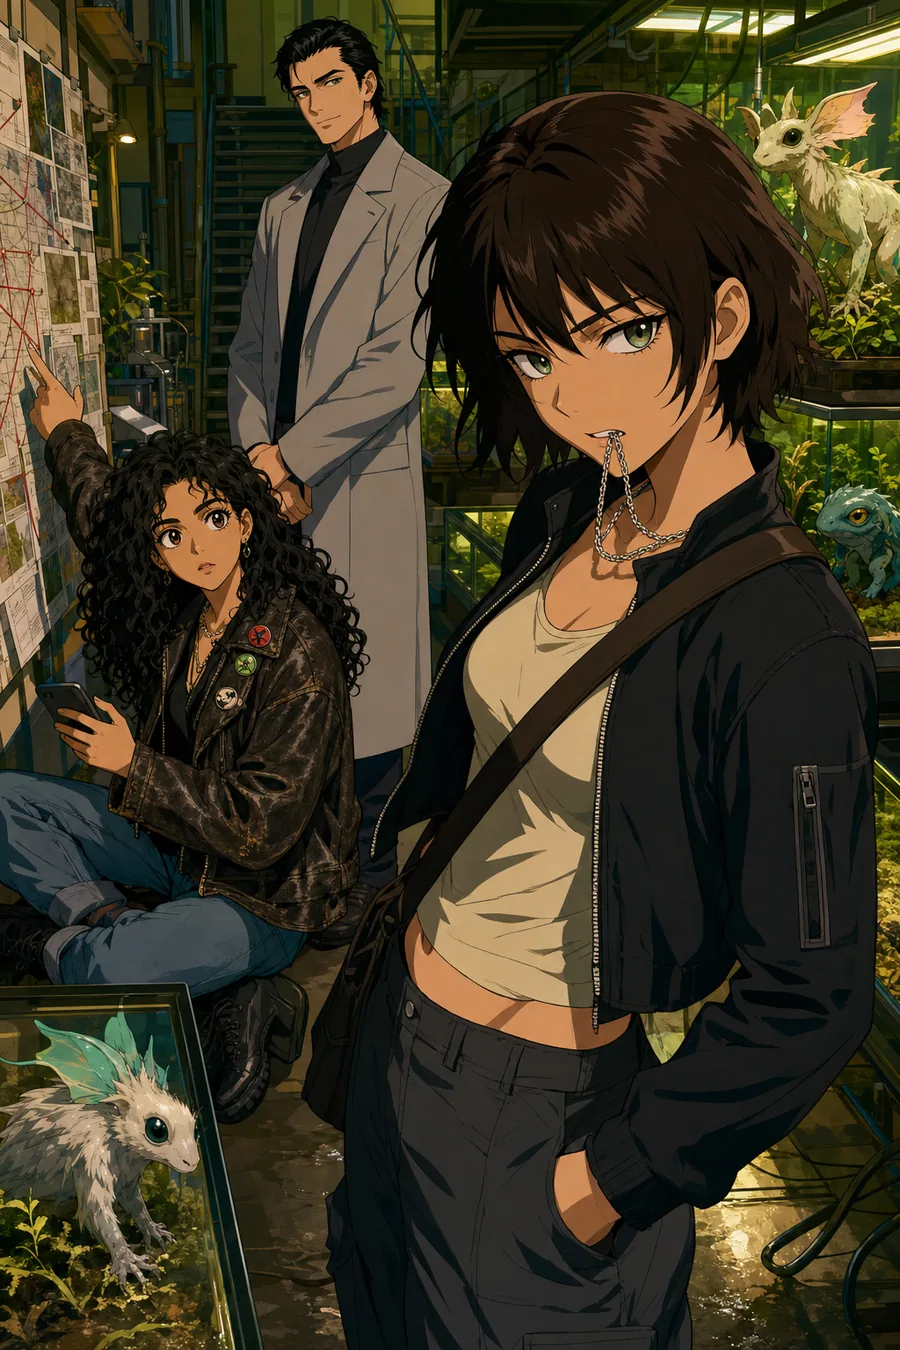
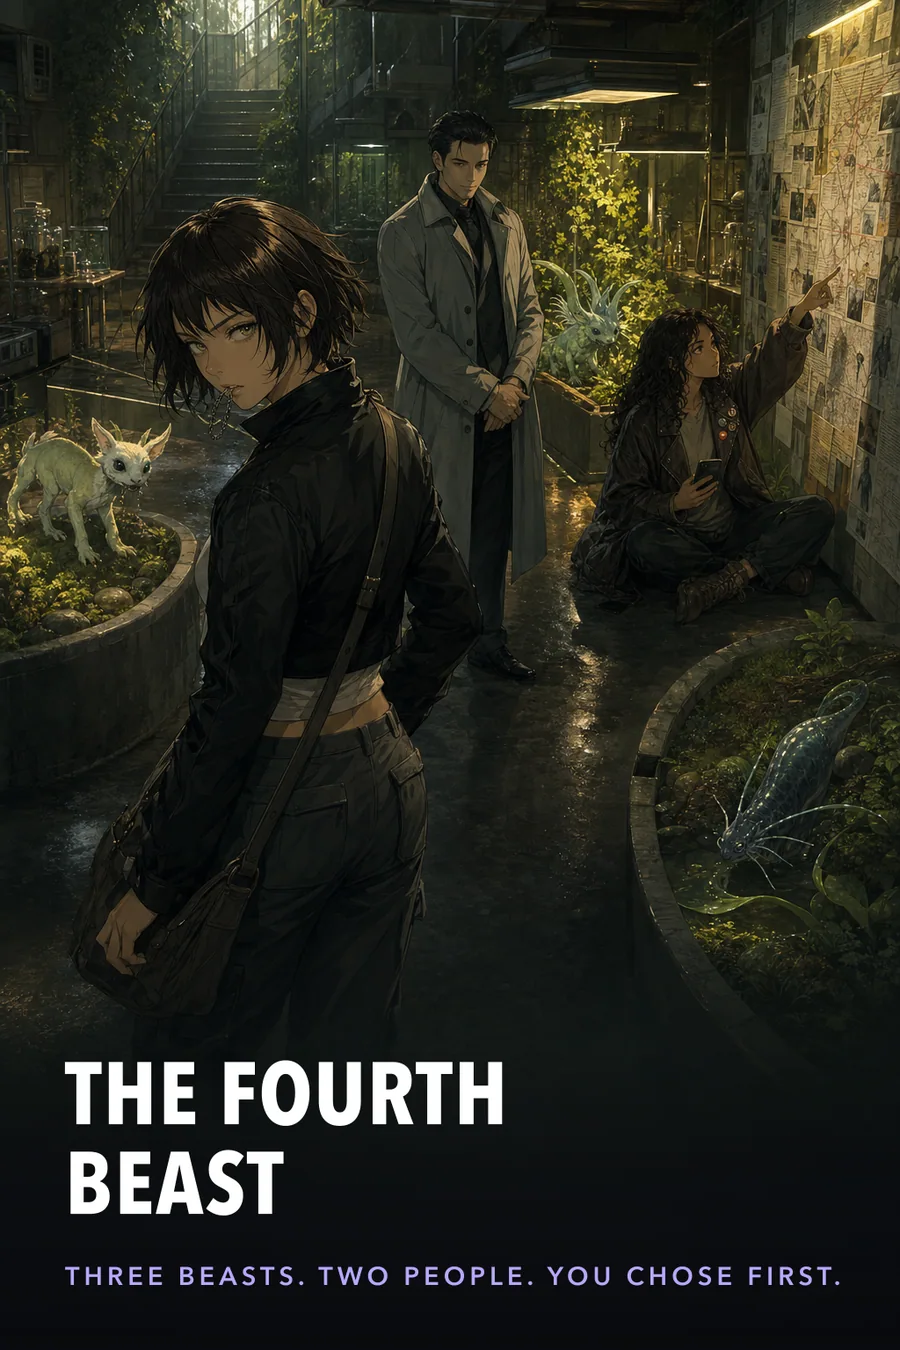
Put a face on Akari's door
Last Service's cover, generated under plotbreak-cover-v3-anime now that
the direction is on main: three cooks filling the frame front-on, flat
cel shading, no wordmark and no text anywhere in the plate. That closes
the last world in the queue — twenty-two in the catalog, every one of
them with art.

Claude-Session: https://claude.ai/code/session_01GuBMesGETpHFxrQ7MAaRRK

diff --git a/docs/stories-checkpoint.md b/docs/stories-checkpoint.md
@@ -27,7 +27,7 @@ on `hush-house.ts`; merge resolved cleanly and is already pushed).
 | The Blank Prophecy | ✅ `blank-prophecy.ts` | ✅ `blank-prophecy.spec.ts` | ✅ 70 assets | ✅ |
 | The Red Floor | ✅ `red-floor.ts` | ✅ `red-floor.spec.ts` | ✅ 78 assets | ✅ |
 | Second Skin | ✅ `second-skin.ts` | ✅ `second-skin.spec.ts` | ✅ 78 assets | ✅ |
-| Last Service | ✅ `last-service.ts` | ✅ `last-service.spec.ts` | ✅ 78 assets, **no cover yet** (see Next) | ✅ |
+| Last Service | ✅ `last-service.ts` | ✅ `last-service.spec.ts` | ✅ 79 assets incl. v3 cover | ✅ |
 
 All three gates green at the last commit. Catalog is now **22 worlds**. Every
 bible in the queue is built; nothing is untouched.
@@ -210,21 +210,13 @@ in this session. **Keep writing the good word — just add it to the map.**
 
 ## Next
 
-1. **Last Service cover.** Everything else of its art is generated, optimized
-   and pushed — key visual, fourteen stages, seven portraits, seven full
-   reaction decks. The
-   cover was deliberately skipped: the coordinator's v3 anime direction
-   (`COVER_STYLE_SPINE`, `plotbreak-cover-v3-anime`, cover `titleSafeArea`
-   null, cast filling three quarters of the frame) is **not on `origin/main`
-   yet** — main still reads `plotbreak-cover-v2` with the title-safe band on.
-   When v3 lands, `git checkout origin/main -- packages/director/src/media/prompts.ts`
-   and run
-   `npx tsx infra/scripts/generate-art.ts --only=story_last_service/cover`.
-   Do not re-enable wordmark plating.
-2. `optimize-art.ts`, gates, commit, push once the deck finishes.
-3. Offered but not taken: populating `protagonist` on the eight worlds this
-   branch built. The schema is on main and defaults to `BLANK`, which is
-   correct for all of them except Itachi, which already declares `NAMED`.
+1. **Nothing outstanding on this branch.** Every bible assigned to it is
+   built, gated, catalogued and illustrated, and `origin/main` is merged in
+   as of the v3 cover direction. Last Service's cover was generated under
+   `plotbreak-cover-v3-anime` with plating off.
+2. Offered but not taken: populating `protagonist` on the worlds this branch
+   built. The schema is on main and defaults to `BLANK`, which is correct
+   for all eight of them; Itachi already declares `NAMED` on main.
 
 **The image provider rate-limits hard at about sixty images in a stretch.**
 Fourteen frames failed as `RATE_LIMITED` at concurrency 4 and again
